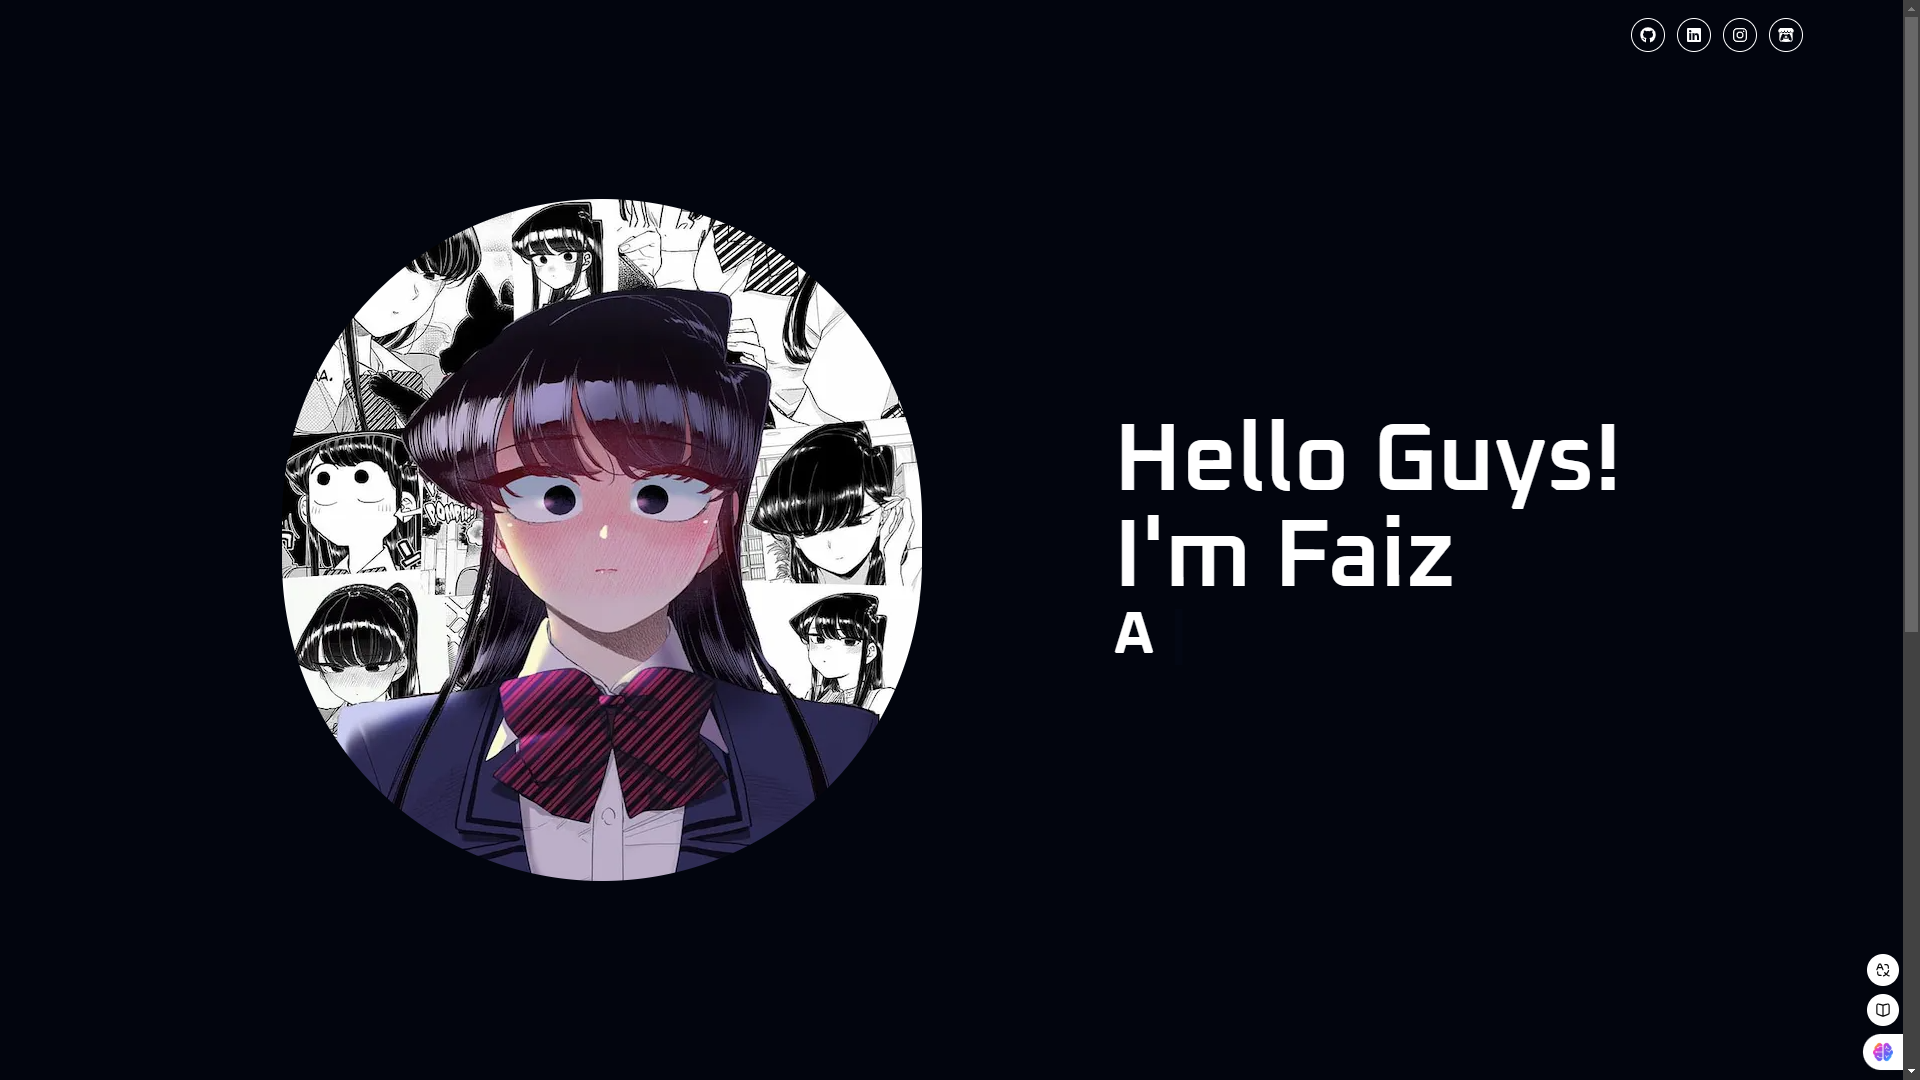
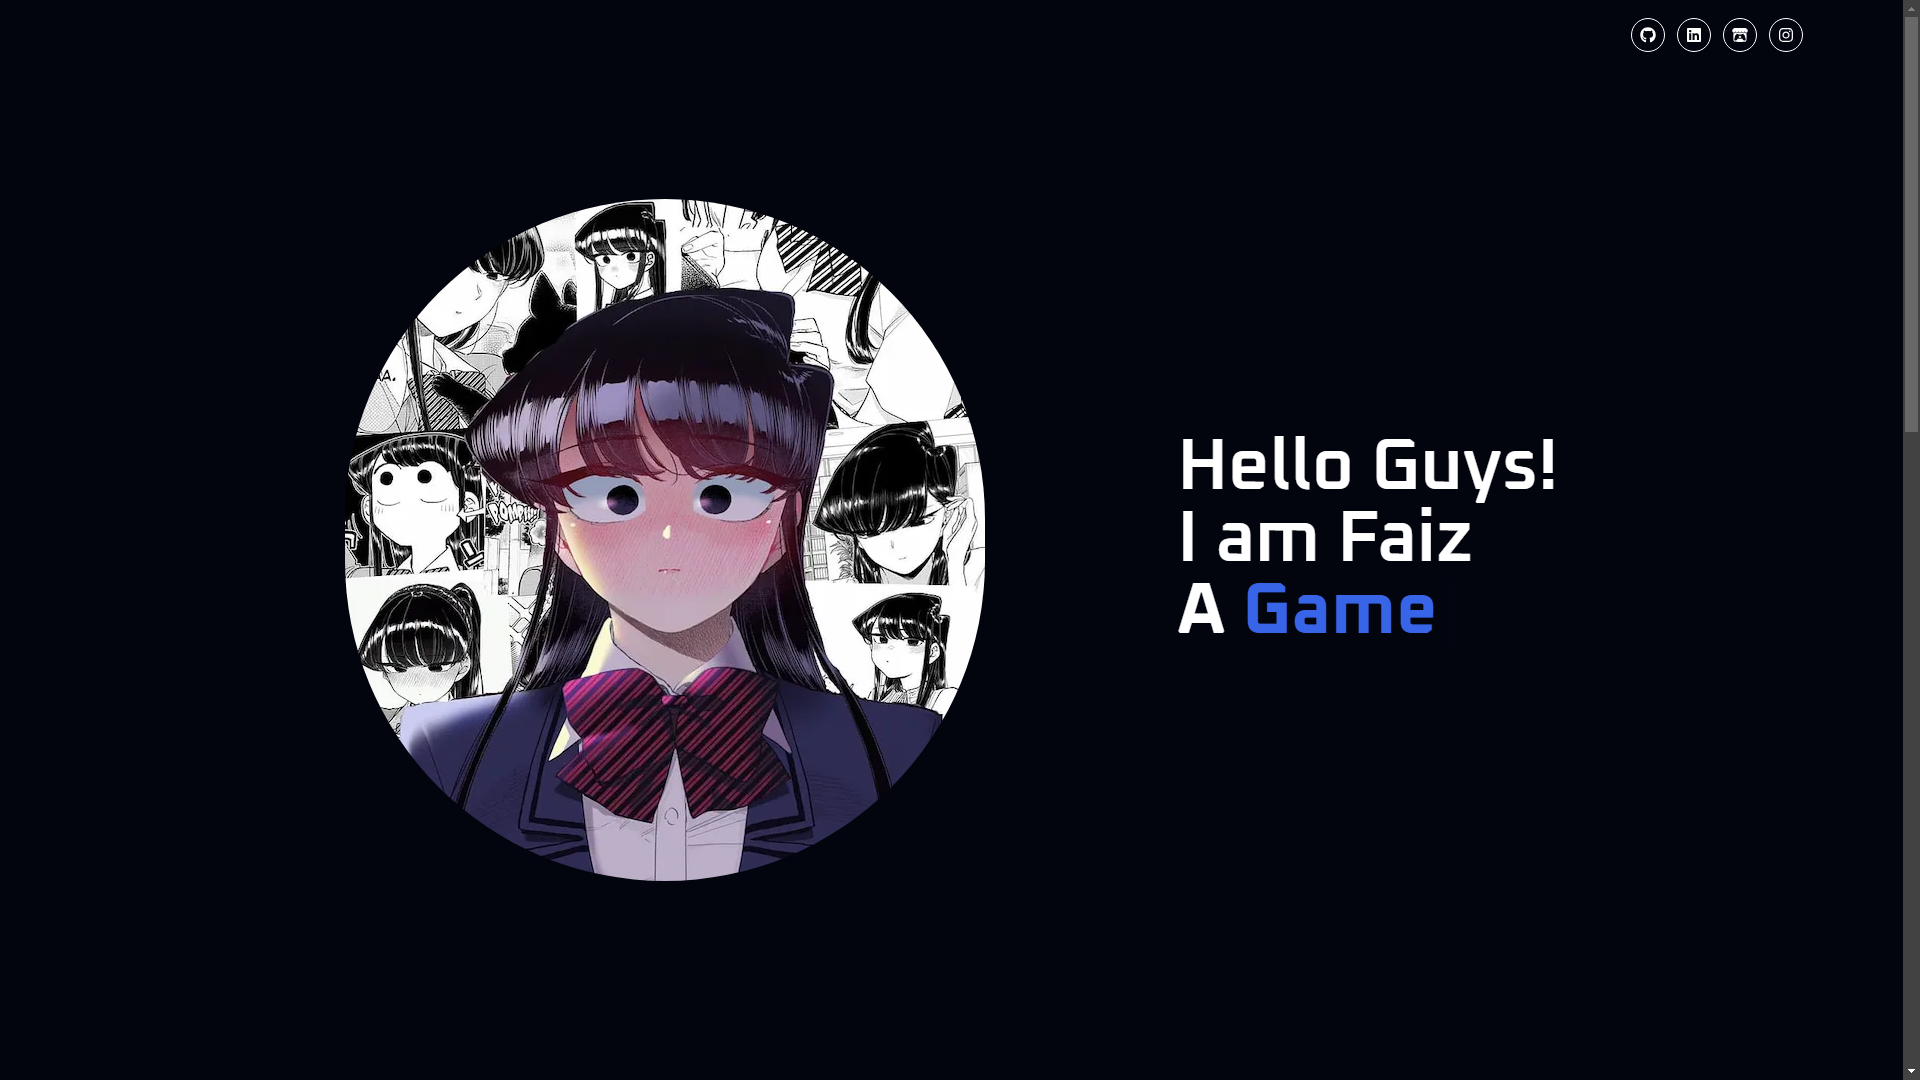
new Project

diff --git a/src/component/Hero.tsx b/src/component/Hero.tsx
@@ -24,11 +24,11 @@ export default function Hero() {
           />
         </div>
         <div className="text-white z-30 oxanium text-left">
-          <h2 className="oxanium-semibold text-3xl sm:text-4xl md:text-8xl">
+          <h2 className="oxanium-semibold text-3xl sm:text-4xl md:text-7xl">
             Hello Guys!
             <br /> I am Faiz
           </h2>
-            <h3 className="text-3xl sm:text-3xl md:text-8xl oxanium-bold">
+            <h3 className="text-3xl sm:text-3xl md:text-7xl oxanium-bold">
             A <span className="text-[#3864e8] inline-block min-w-[200px]"><Typewriter options={{ strings, autoStart: true, loop: true, wrapperClassName: "inline-block" }} /></span>
             </h3>
         </div>

diff --git a/src/component/parts/Card.tsx b/src/component/parts/Card.tsx
@@ -53,7 +53,7 @@ import React, { ReactNode } from "react";
                 href={props.href}
                 target="_blank"
                 key={props.href}
-                className="block h-[225px] w-[90%] md:w-[40%] xl:w-1/3 rounded-xl overflow-hidden relative group"
+                className="block h-[225px] w-[90%] md:w-[40%] xl:w-1/3 rounded-xl overflow-hidden relative group outline outline-blue-500"
             >
                 <div className="bg-black absolute w-full h-full -z-20 bg-opacity-0 duration-500 transition-all group-hover:bg-opacity-30"></div>
                 <div className="w-full h-full block transition-all duration-300 z-[999] py-3 px-4">

diff --git a/src/component/Footer.tsx b/src/component/Footer.tsx
@@ -5,7 +5,7 @@ export default function Footer() {
         <div className="flex flex-col md:flex-row items-center justify-between w-full h-auto p-10">
             <div className="oxanium oxanium-semibold text-center md:text-left mb-6 md:mb-0">
                 <h1 className="text-sm md:text-md lg:text-4xl">Contact me at faizannabil877@gmail.com</h1>
-                <p className="text-xs md:text-md">© 2021 Muhammad Faiz Annabil</p>
+                <p className="text-xs md:text-md">© 2024 Muhammad Faiz Annabil</p>
             </div>
             <div id="iconButton" className="flex flex-row md:flex-col lg:flex-row gap-2 md:gap-6">
                 <a

diff --git a/src/component/Project.tsx b/src/component/Project.tsx
@@ -13,6 +13,16 @@ const projects = [
             <SiTypescript key="typescript" />,
         ],
     },
+    {
+        name: "Movie App",
+        image: "movie-app.png", // Sesuaikan dengan nama file
+        href: "#",
+        stack: [
+            <RiNextjsFill key="nextjs" />,
+            <SiTypescript key="typescript" />,
+            // <SiThemoviedatabase key="tmdb" />,
+        ],
+    }
 ];
 
     export default function Projects() {
